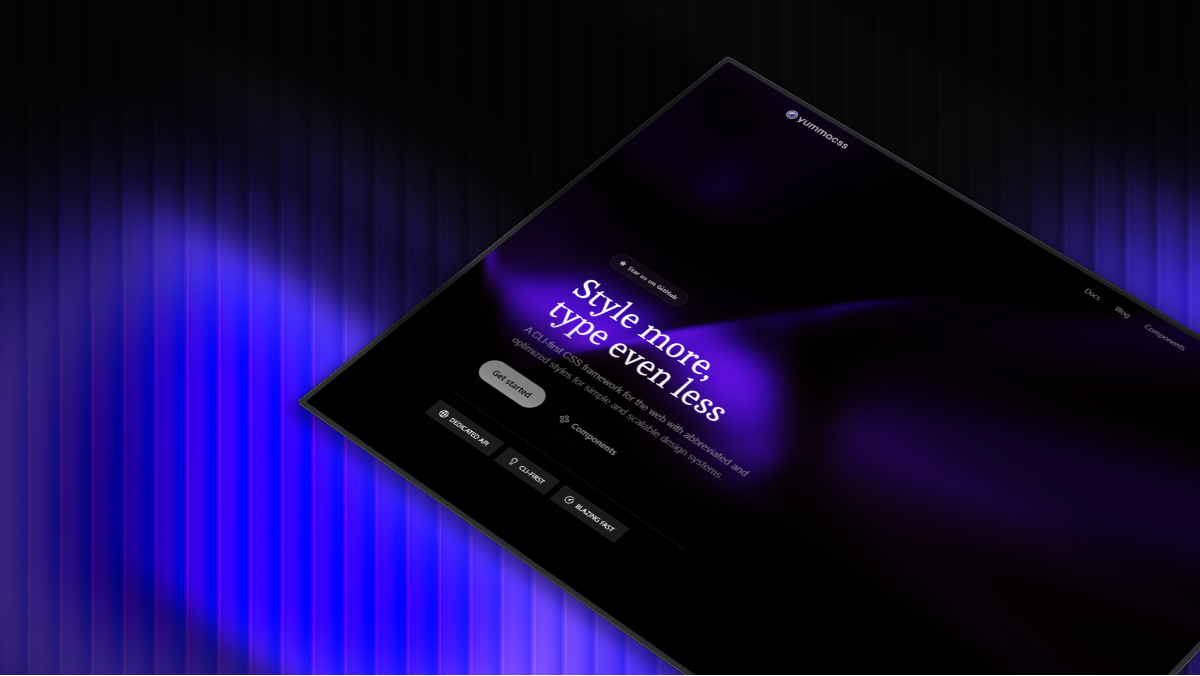
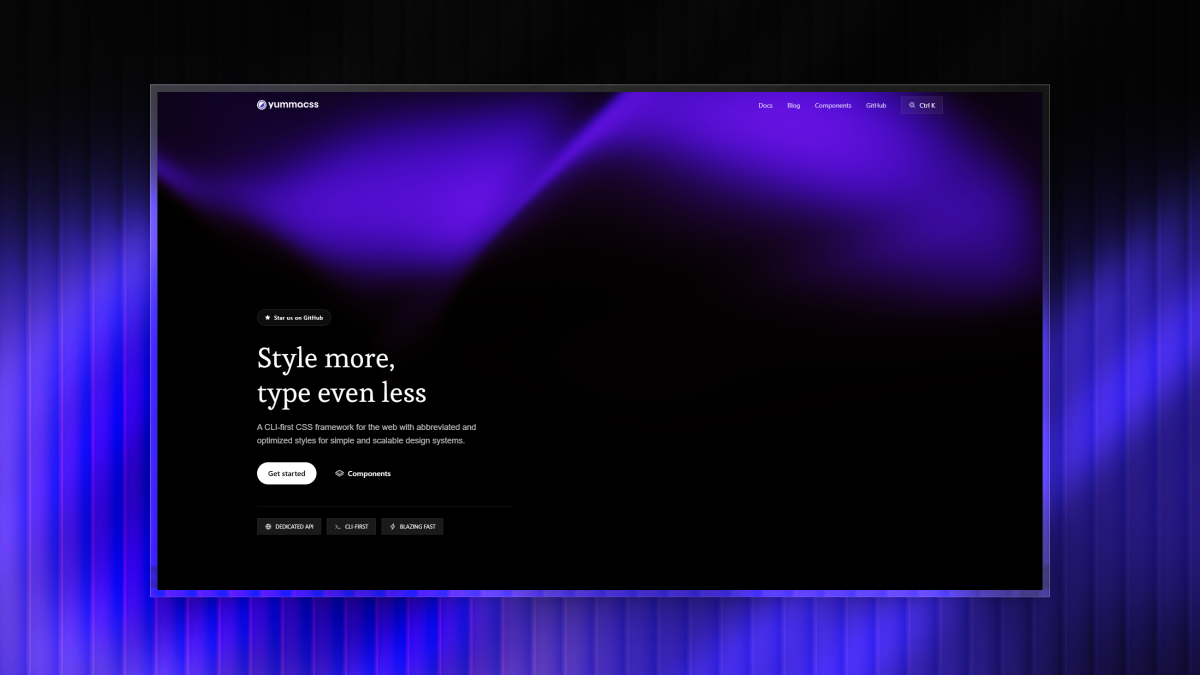
refactor: update open graph images, update logomarks, and rework Accordion Yumma UI component documentation

diff --git a/src/registry/ui/accordion-basic.tsx b/src/registry/ui/accordion-basic.tsx
@@ -29,9 +29,9 @@ export default function AccordionBasic() {
   ];
 
   return (
-    <div className="d-f fd-c">
+    <div className="d-f fd-c g-2">
       {items.map((item, index) => (
-        <div key={item.id} className="d-f fd-c w-full">
+        <div key={item.id} className="d-f fd-c w-full p-0">
           <h4 className="m-0">
             <button
               type="button"
@@ -39,9 +39,7 @@ export default function AccordionBasic() {
               aria-expanded={expanded === index}
               aria-controls={`accordion-panel-${index}`}
               onClick={() => toggle(index)}
-              className={`p-4 c-p d-f jc-sb ai-c w-full b-1 bc-silver-4 fw-600 rad-0 bg-white h:bg-silver-1 f:oc-silver-1 f:os-s f:ow-2 ${
-                index !== items.length - 1 ? "bb-none" : ""
-              }`}
+              className="p-4 c-p d-f jc-sb ai-c w-full b-1 bc-silver-4 fw-600 rad-0 bg-white h:bg-silver-1 f:oc-silver-1 f:os-s f:ow-2"
             >
               <span className="ff-s tc-slate fs-md">{item.title}</span>
               <svg
@@ -72,9 +70,8 @@ export default function AccordionBasic() {
             id={`accordion-panel-${index}`}
             aria-labelledby={`accordion-button-${index}`}
             hidden={expanded !== index}
-            className={`p-4 bg-white tc-slate fs-sm lh-4 b-1 bc-silver-4 bt-0 ${
-              expanded === index ? "d-b" : "d-none"
-            } ${index !== items.length - 1 ? "bb-none" : ""}`}
+            className={`p-4 bg-white tc-slate fs-sm lh-4 b-1 bc-silver-4 bt-0 ${expanded === index ? "d-b" : "d-none"
+              }`}
           >
             <p className="tc-slate-6 m-0">{item.content}</p>
           </section>

diff --git a/src/styles/globals.css b/src/styles/globals.css
@@ -29,43 +29,48 @@ p {
   --mid: #7d53dd;
   --end: #595cd9;
   --via: #12a695;
-  mask-image: linear-gradient(#fff, #0000), radial-gradient(circle at 50% 0, #fff, #0000);
+  mask-image:
+    linear-gradient(#fff, #0000), radial-gradient(circle at 50% 0, #fff, #0000);
   mask-composite: intersect;
   mix-blend-mode: difference;
-  background-image: repeating-linear-gradient(60deg,
-      var(--end),
-      var(--start)2%,
-      var(--start)5%,
-      #0000 8%,
-      #0000 14%,
-      var(--via)18%,
-      var(--via)22%,
-      var(--mid)28%,
-      var(--mid)30%,
-      var(--via)34%,
-      var(--via)36%,
-      #0000,
-      var(--end)calc(50% - 12px));
+  background-image: repeating-linear-gradient(
+    60deg,
+    var(--end),
+    var(--start) 2%,
+    var(--start) 5%,
+    #0000 8%,
+    #0000 14%,
+    var(--via) 18%,
+    var(--via) 22%,
+    var(--mid) 28%,
+    var(--mid) 30%,
+    var(--via) 34%,
+    var(--via) 36%,
+    #0000,
+    var(--end) calc(50% - 12px)
+  );
   background-size: 200% 100%;
   animation: rainbow 16s linear infinite reverse;
 }
 
 @keyframes rainbow {
   0% {
-    background-position: 0 0
+    background-position: 0 0;
   }
 
   100% {
-    background-position: 100% 0
+    background-position: 100% 0;
   }
 }
 
 #area {
   background-color: #151724;
   background-size: 10px 10px;
-  background-image: repeating-linear-gradient(45deg,
-      #31365e 0,
-      #31365e 1px,
-      #151724 0,
-      #151724 50%);
+  background-image: repeating-linear-gradient(
+    45deg,
+    #31365e 0,
+    #31365e 1px,
+    #151724 0,
+    #151724 50%
+  );
 }

diff --git a/src/registry/index.tsx b/src/registry/index.tsx
@@ -4,7 +4,6 @@ import type { ComponentType } from "react";
 import AccordionBasic from "./ui/accordion-basic";
 import AccordionGhost from "./ui/accordion-ghost";
 import AccordionIcons from "./ui/accordion-icons";
-import AccordionSeparated from "./ui/accordion-separated";
 import AuthFormBasicSignIn from "./ui/auth-form-basic-sign-in";
 import AuthFormBasicSignUp from "./ui/auth-form-basic-sign-up";
 import AvatarCircle from "./ui/avatar-circle";
@@ -95,7 +94,6 @@ import TimelineIcons from "./ui/timeline-icons";
 export const registry: Record<string, ComponentType> = {
   // Accordion
   "accordion-basic": AccordionBasic,
-  "accordion-separated": AccordionSeparated,
   "accordion-ghost": AccordionGhost,
   "accordion-icons": AccordionIcons,
   // Auth Form

diff --git a/src/components/ui/navbar.tsx b/src/components/ui/navbar.tsx
@@ -63,7 +63,7 @@ export default function Navbar({ variant, className, links }: NavbarProps) {
             <div className="d-f ai-c g-2">
               <Link href={isUI ? "/ui" : "/"}>
                 <Image
-                  src={isUI ? "/ui-logotype.png" : "/logotype.png"}
+                  src={isUI ? "/ui-logotype.svg" : "/logotype.svg"}
                   width={240}
                   height={80}
                   alt="Yumma CSS"
